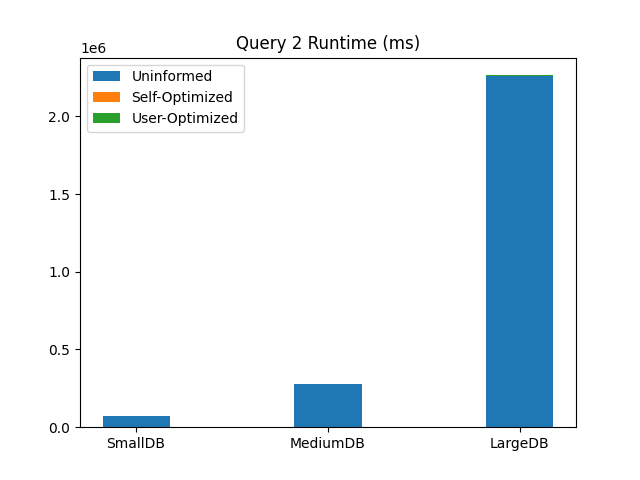
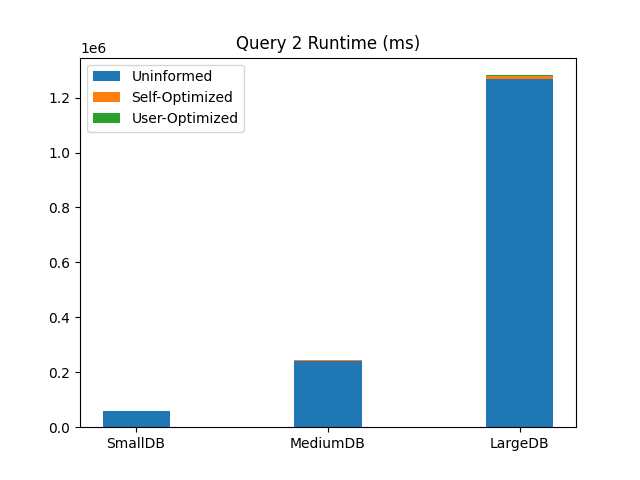
update q2

diff --git a/Q2A3.py b/Q2A3.py
@@ -27,7 +27,6 @@ def multi_bar_chart(values1, values2, values3, labels, title):
     plt.title(title)
 
     # save plot to file
-    # we'll use passed title to give file name
     path = './Q2A3chart.png'
     plt.savefig(path)
     print('Chart saved to file {}'.format(path))
@@ -51,7 +50,7 @@ def query(postalCode):
 
     cursor.execute("""CREATE VIEW IF NOT EXISTS OrderSize AS SELECT O.order_id as oid, COUNT(order_item_id) as size
 	            FROM Orders as O, Order_items as I WHERE O.order_id = I.order_id GROUP BY O.order_id;""")
-    cursor.execute("""SELECT AVG(size) FROM Customers as C, Orders as O, OrderSize WHERE customer_postal_code = :P
+    cursor.execute("""SELECT AVG(size) FROM Customers as C, Orders as O, OrderSize WHERE C.customer_postal_code = :P
     AND C.customer_id = O.customer_id AND O.order_id = oid;""", {"P": postalCode})
     connection.commit()
     return
@@ -105,40 +104,9 @@ def scenario2():
 
 def scenario3():
     global connection, cursor
-    cursor.execute('PRAGMA automatic_index = FALSE;')
-    cursor.execute(
-        '''CREATE TABLE IF NOT EXISTS NewCustomers (customer_id TEXT, customer_postal_code INTEGER, PRIMARY KEY(customer_id));''')
-    cursor.execute(
-        '''INSERT INTO NewCustomers SELECT customer_id, customer_postal_code FROM Customers;''')
-    cursor.execute(
-        '''ALTER TABLE Customers RENAME TO CustomersOriginal;''')
-    cursor.execute(
-        '''ALTER TABLE NewCustomers RENAME TO Customers;''')
-
-    cursor.execute(
-        '''CREATE TABLE IF NOT EXISTS NewOrders(order_id TEXT, customer_id TEXT, PRIMARY KEY(order_id),
-	FOREIGN KEY(customer_id) REFERENCES Customers(customer_id));''')
-    cursor.execute(
-        '''INSERT INTO NewOrders SELECT order_id, customer_id FROM Orders;''')
-    cursor.execute(
-        '''ALTER TABLE Orders RENAME TO OrdersOriginal;''')
-    cursor.execute(
-        '''ALTER TABLE NewOrders RENAME TO Orders;''')
-
-    cursor.execute(
-        '''CREATE TABLE IF NOT EXISTS NewOrder_items(order_id TEXT,	order_item_id INTEGER, product_id TEXT,	seller_id TEXT, PRIMARY KEY(order_id,order_item_id,product_id,seller_id),
-	FOREIGN KEY(seller_id) REFERENCES Sellers(seller_id)
-	FOREIGN KEY(order_id) REFERENCES Orders(order_id));''')
-    cursor.execute(
-        '''INSERT INTO NewOrder_items SELECT order_id, order_item_id, product_id, seller_id FROM Order_items;''')
-    cursor.execute(
-        '''ALTER TABLE Order_items RENAME TO Order_itemsOriginal;''')
-    cursor.execute(
-        '''ALTER TABLE NewOrder_items RENAME TO Order_items;''')
-    # * scenario1()
 
     # create indices
-    cursor.execute('CREATE INDEX OrderIdx1 On Orders (order_id,customer_id);')
+    cursor.execute('CREATE INDEX OrderIdx1 On Orders (customer_id);')
     cursor.execute(
         'CREATE INDEX CustIdx1 On Customers (customer_postal_code);')
 
@@ -166,13 +134,14 @@ def main():
             else:
                 scenario3()
 
-            # start counting execution time
-            start_time = time.time()
             # get add postal codes and randomly select 50
             cursor.execute(
                 """SELECT DISTINCT(customer_postal_code) from Customers""")
             rows = cursor.fetchall()
             postal_codes = random.choices(rows, k=50)
+
+            # start counting execution time
+            start_time = time.time()
             for x in range(50):
                 query(postal_codes[x][0])
 
